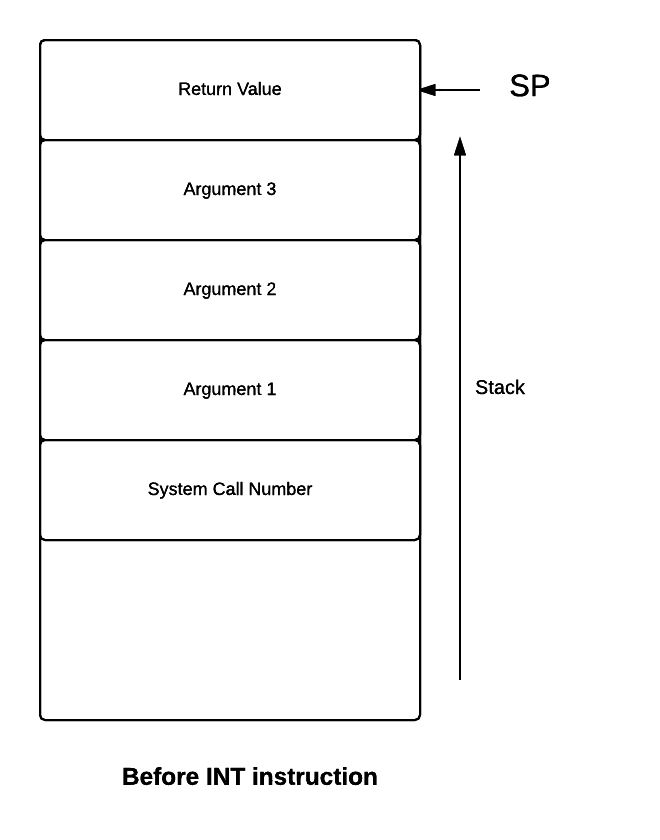
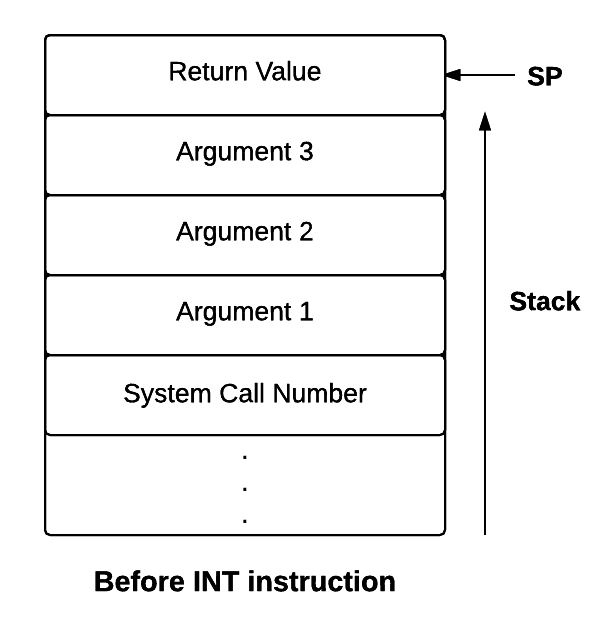
sys call interface

diff --git a/abi.html b/abi.html
@@ -47,6 +47,9 @@
       <script src="https://oss.maxcdn.com/html5shiv/3.7.2/html5shiv.min.js"></script>
       <script src="https://oss.maxcdn.com/respond/1.4.2/respond.min.js"></script>
     <![endif]-->
+  
+   
+
   </head>
   <body> 
      <!-- BEGAIN PRELOADER -->
@@ -275,45 +278,61 @@ is done by the allocator routines in the shared library (for example, memory all
                                 <h3>System Calls</h3>
                                 <p>For an application program, there are two stages in executing a system call:</p>
                                 <ul style="text-indent: 5em;">
-                                    <li>1. <i>Before the system call</i>:   The calling application must set up the arguments in the (user) stack before executing the trap instruction.  </li>
-                                    <li>2. <i>After the system call</i>:   The return value of the system call must be extracted from the stack.  </li>
+                                    <li>1. <b>Before the system call</b> :   The calling application must set up the arguments in the (user) stack before executing the trap instruction.  </li>
+                                    <li>2. <b>After the system call</b> :   The return value of the system call must be extracted from the stack.  </li>
                                     
                                 </ul>
                                 <h3>Invoking a system call</h3>
                                 <p>A user program invokes a system call by first pushing the system call number and then the arguments into the stack and then invoking the <b>INT</b> machine instruction corresponding to the system call. The eXpOS ABI stipulates that the number of arguments pushed into the stack is fixed at three. </p>
-                                <p> A system call invocation using the high level application programmer's interface of a programming language like ExpL compiles to a set of machine instructions. They are the stack operations that must be performed by the user program before the INT instruction is executed (See machine instructions below). The arguments must be pushed into the stack in  such a way that the last argument comes on the top. An additional push instruction ('PUSH R0' - see sample code below) is inserted to have an empty space in the stack for the return value. The system call implementation must ensure that the return value is stored in this space. The system call number is also pushed to the stack. The interrupt routine needs this value to identify the system call. <p>
-<br>
-<pre style = "font-size:20px">
+                                
+<div>
+  <p>
+    <pre style = "float:left;margin-right:10px">
     PUSH System_Call_Number     // Push system call number 
-    PUSH Argument_1         // Push argument 1 to the stack
-    PUSH Argument_2         // Push argument 2 to the stack
-    PUSH Argument_3         // Push argument 3 to the stack
-    PUSH R0	                // Push an empty space for RETURN VALUE
-    INT number              // Invoke the corresponding INT instruction. The number 
-                                   can be any number between 4 and 18 
+    PUSH Argument_1             // Push argument 1 to the stack
+    PUSH Argument_2             // Push argument 2 to the stack
+    PUSH Argument_3             // Push argument 3 to the stack
+    <b>PUSH R0                     // Push an empty space for RETURN VALUE</b>
+    INT number                  // Invoke the corresponding INT instruction. 
+                                   The number can be any number between 4 and 18 
                                 
-</pre>
-<br>
-                                <p>The following figure shows the data stored in process stack just before an INT instruction. </p>
-<center>                        <img src="img/system_call_stack1.png"></center>
-                                
-                                <p>The INT instruction in XSM will push the value of IP + 2 on to the stack. This is the address of the instruction immediately following the INT instruction in the user program. Each instruction is 2 words, hence IP is incremented by 2. Upon execution of the IRET instruction from the system call, execution resumes from this value of IP. The INT instruction changes mode from <b>User</b> mode to <b>kernel</b> mode and passes control to the Interrupt Routine corresponding to the system call. </p>
-                                <p>The following figure shows the contents of the stack immediately after the execution of the INT instruction. </p>
-<center>                        <img src="img/system_call_stack2.png"></center>
-                                <h3>After return from the system call</h3>
-                                <p>The IRET instruction transfers control back to the user program to the instruction immediately following the INT instruction. The following machine instructions are present after the INT instruction in the ExpL compiled machine code given in the previous step. </p>
-<br>
-<pre style = "font-size:20px">
-    POP Ri                    // Pop and save the return value into some register Ri
-    POP Rj                    // Pop and discard argument 3
-    POP Rj                    // Pop and discard argument 2
-    POP Rj                    // Pop and discard argument 1
-    POP Rj                   // Pop and discard the system call number
-                              // Now the stack is popped back to the state before call 	
 </pre>
 
-<p>The machine code above pops the values from the stack. The system call number and arguments were inputs to the system call and hence they may be discarded now. The return value which is stored in the stack by the system call is fetched and used by the user program by popping out to some register.   </p>
-                                <h3>System calls and their translation</h3>
+   A system call invocation using the high level application programmer's interface of a programming language like ExpL compiles to a set of machine instructions (see the instructions to the left). They are the stack operations that must be performed by the user program before the INT instruction is executed.  </p>
+</div>
+<br/> <br/> <br/>
+<div>
+  <p style="clear:left">
+  <img src="img/system_call_stack1.png" width="350px" height="350px" style="float:left;margin-right:5px">
+  <br/><br/>
+  The arguments must be pushed into the stack in  such a way that the last argument comes on the top. An additional push instruction ('PUSH R0') is inserted to have an empty space in the stack for the return value. The system call implementation must ensure that the return value is stored in this space. The system call number is also pushed to the stack. The interrupt routine needs this value to identify the system call. The figure to the left shows the data stored in process stack just before an INT instruction. </p>                           
+ </div>
+
+<br/>
+
+<div style="clear:left">
+    <p>
+    <img src="img/system_call_stack2.png" width="350px" height="350px" style="float:right;margin-left:5px">
+    <br/><br/>The INT instruction in XSM will push the value of IP + 2 on to the stack. This is the address of the instruction immediately following the INT instruction in the user program. Each instruction is 2 words, hence IP is incremented by 2. Upon execution of the IRET instruction from the system call, execution resumes from this value of IP. The INT instruction changes mode from <b>User</b> mode to <b>Kernel</b> mode and passes control to the Interrupt Routine corresponding to the system call. The figure to the right shows the contents of the stack immediately after the execution of the INT instruction. </p>
+</div>
+
+                                <h3 style="clear:right">After return from the system call</h3>
+                                <p>The IRET instruction transfers control back to the user program to the instruction immediately following the INT instruction. The following machine instructions are present after the INT instruction in the ExpL compiled machine code given in the previous step. </p>
+<div>
+<p>
+<pre style="float:left;margin-right:10px">
+    POP Ri           // Pop and save the return value into some register Ri
+    POP Rj           // Pop and discard argument 3
+    POP Rj           // Pop and discard argument 2
+    POP Rj           // Pop and discard argument 1
+    POP Rj           // Pop and discard the system call number
+                     // Now the stack is popped back to the state before call 	
+</pre>
+
+The machine code to the left pops the values from the stack. The system call number and arguments were inputs to the system call and hence they may be discarded now. The return value which is stored in the stack by the system call is fetched and used by the user program by popping out to some register.   </p>
+</div>
+
+                                <h3 style="clear:left">System calls and their translation</h3>
 <p>
 Associated with each system call, there is a system call number and interrupt routine number. The system call number is used to identify a system call. The interrupt routine number denotes the number of the interrupt routine which  handles the system call. An interrupt routine may handle more than one system call.       
 </p>       
@@ -487,7 +506,7 @@ Associated with each system call, there is a system call number and interrupt ro
       <td>18</td>	
   </tr>                            
 </table>
-            <p>For details on the specification of the system calls, click <a href="os_spec-files/systemcallinterface.html" target="_blank">here</a></p>
+            <p>For details on the specification of the system calls, click <a href="os_spec-files/systemcallinterface.html" target="_blank">here</a>.</p>
 
                                </div>
                           </div>
